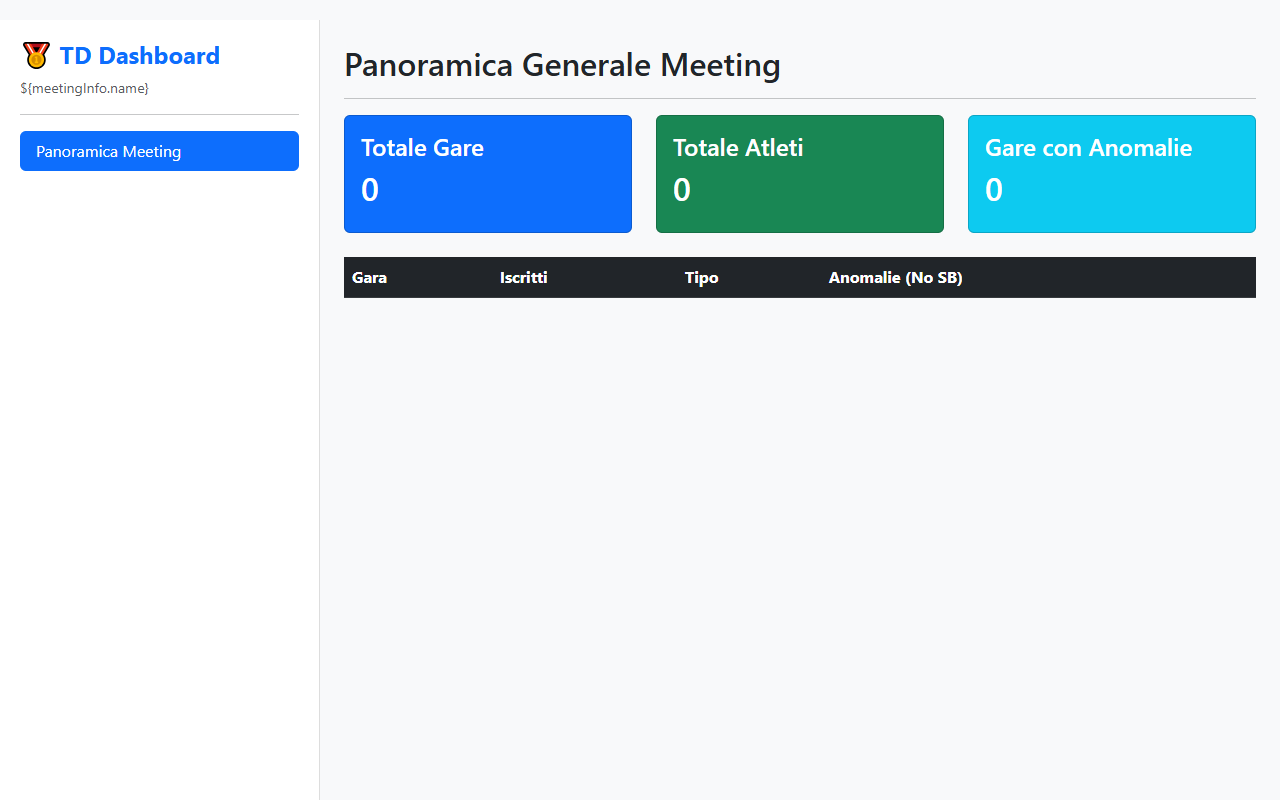
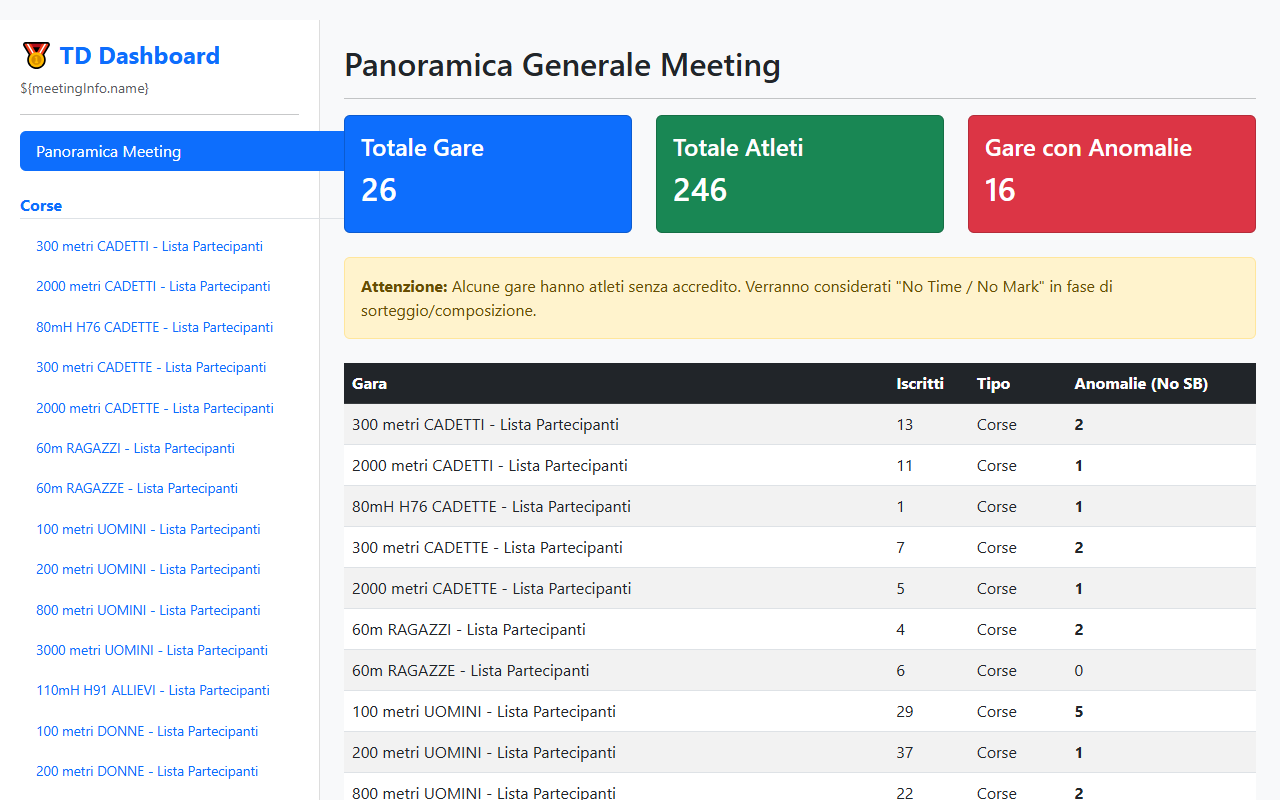
Add track and field screenshots

diff --git a/td_dashboard.html b/td_dashboard.html
@@ -36,7 +36,7 @@
     </div>
 
     <script>
-        const data = [];
+        const data = [{"id_gara":"GaraL005.html","nome_gara":"300 metri CADETTI - Lista Partecipanti","numero_iscritti":13,"iscritti":[{"pettorale":"","nominativo":"Atleta 1","fidal_link":"","anno_nascita":"2011","categoria":"CM","societa":"Società 4","accredito":"37.19"},{"pettorale":"","nominativo":"Atleta 2","fidal_link":"","anno_nascita":"2011","categoria":"CM","societa":"Società 5","accredito":"37.52"},{"pettorale":"","nominativo":"Atleta 3","fidal_link":"","anno_nascita":"2011","categoria":"CM","societa":"Società 13","accredito":"37.89"},{"pettorale":"","nominativo":"Atleta 4","fidal_link":"","anno_nascita":"2012","categoria":"CM","societa":"Società 8","accredito":"38.37"},{"pettorale":"","nominativo":"Atleta 5","fidal_link":"","anno_nascita":"2012","categoria":"CM","societa":"Società 16","accredito":"38.45"},{"pettorale":"","nominativo":"Atleta 6","fidal_link":"","anno_nascita":"2012","categoria":"CM","societa":"Società 5","accredito":"38.76"},{"pettorale":"","nominativo":"Atleta 7","fidal_link":"","anno_nascita":"2011","categoria":"CM","societa":"Società 3","accredito":"38.97"},{"pettorale":"","nominativo":"Atleta 8","fidal_link":"","anno_nascita":"2011","categoria":"CM","societa":"Società 10","accredito":"39.22"},{"pettorale":"","nominativo":"Atleta 9","fidal_link":"","anno_nascita":"2011","categoria":"CM","societa":"Società 14","accredito":"41.15"},{"pettorale":"","nominativo":"Atleta 10","fidal_link":"","anno_nascita":"2011","categoria":"CM","societa":"Società 15","accredito":"41.85"},{"pettorale":"","nominativo":"Atleta 11","fidal_link":"","anno_nascita":"2011","categoria":"CM","societa":"Società 3","accredito":"41.89"},{"pettorale":"","nominativo":"Atleta 12","fidal_link":"","anno_nascita":"2011","categoria":"CM","societa":"Società 2","accredito":""},{"pettorale":"","nominativo":"Atleta 13","fidal_link":"","anno_nascita":"2011","categoria":"CM","societa":"Società 2","accredito":""}]},{"id_gara":"GaraL009.html","nome_gara":"2000 metri CADETTI - Lista Partecipanti","numero_iscritti":11,"iscritti":[{"pettorale":"60","nominativo":"Atleta 14","fidal_link":"","anno_nascita":"2011","categoria":"CM","societa":"Società 1","accredito":"6:07.54"},{"pettorale":"70","nominativo":"Atleta 15","fidal_link":"","anno_nascita":"2011","categoria":"CM","societa":"Società 13","accredito":"6:10.03"},{"pettorale":"33","nominativo":"Atleta 16","fidal_link":"","anno_nascita":"2011","categoria":"CM","societa":"Società 20","accredito":"6:10.63"},{"pettorale":"16","nominativo":"Atleta 17","fidal_link":"","anno_nascita":"2011","categoria":"CM","societa":"Società 9","accredito":"6:20.55"},{"pettorale":"34","nominativo":"Atleta 18","fidal_link":"","anno_nascita":"2012","categoria":"CM","societa":"Società 5","accredito":"6:22.08"},{"pettorale":"35","nominativo":"Atleta 19","fidal_link":"","anno_nascita":"2011","categoria":"CM","societa":"Società 15","accredito":"6:23.97"},{"pettorale":"62","nominativo":"Atleta 20","fidal_link":"","anno_nascita":"2011","categoria":"CM","societa":"Società 13","accredito":"6:31.22"},{"pettorale":"64","nominativo":"Atleta 21","fidal_link":"","anno_nascita":"2011","categoria":"CM","societa":"Società 12","accredito":"6:35.00"},{"pettorale":"73","nominativo":"Atleta 22","fidal_link":"","anno_nascita":"2011","categoria":"CM","societa":"Società 4","accredito":"6:36.27"},{"pettorale":"47","nominativo":"Atleta 23","fidal_link":"","anno_nascita":"2011","categoria":"CM","societa":"Società 5","accredito":"6:36.63"},{"pettorale":"32","nominativo":"Atleta 24","fidal_link":"","anno_nascita":"2011","categoria":"CM","societa":"Società 12","accredito":""}]},{"id_gara":"GaraL101.html","nome_gara":"80mH H76 CADETTE - Lista Partecipanti","numero_iscritti":1,"iscritti":[{"pettorale":"","nominativo":"Atleta 25","fidal_link":"","anno_nascita":"2011","categoria":"CF","societa":"Società 14","accredito":""}]},{"id_gara":"GaraL105.html","nome_gara":"300 metri CADETTE - Lista Partecipanti","numero_iscritti":7,"iscritti":[{"pettorale":"","nominativo":"Atleta 26","fidal_link":"","anno_nascita":"2011","categoria":"CF","societa":"Società 9","accredito":"40.58"},{"pettorale":"","nominativo":"Atleta 27","fidal_link":"","anno_nascita":"2011","categoria":"CF","societa":"Società 13","accredito":"45.38"},{"pettorale":"","nominativo":"Atleta 28","fidal_link":"","anno_nascita":"2011","categoria":"CF","societa":"Società 15","accredito":"46.48"},{"pettorale":"","nominativo":"Atleta 29","fidal_link":"","anno_nascita":"2011","categoria":"CF","societa":"Società 17","accredito":"50.64"},{"pettorale":"","nominativo":"Atleta 30","fidal_link":"","anno_nascita":"2012","categoria":"CF","societa":"Società 16","accredito":"54.37"},{"pettorale":"","nominativo":"Atleta 31","fidal_link":"","anno_nascita":"2012","categoria":"CF","societa":"Società 12","accredito":""},{"pettorale":"","nominativo":"Atleta 32","fidal_link":"","anno_nascita":"2012","categoria":"CF","societa":"Società 20","accredito":""}]},{"id_gara":"GaraL109.html","nome_gara":"2000 metri CADETTE - Lista Partecipanti","numero_iscritti":5,"iscritti":[{"pettorale":"56","nominativo":"Atleta 33","fidal_link":"","anno_nascita":"2011","categoria":"CF","societa":"Società 1","accredito":"6:46.63"},{"pettorale":"27","nominativo":"Atleta 34","fidal_link":"","anno_nascita":"2012","categoria":"CF","societa":"Società 2","accredito":"7:33.96"},{"pettorale":"75","nominativo":"Atleta 35","fidal_link":"","anno_nascita":"2011","categoria":"CF","societa":"Società 10","accredito":"7:50.33"},{"pettorale":"10","nominativo":"Atleta 36","fidal_link":"","anno_nascita":"2011","categoria":"CF","societa":"Società 15","accredito":"7:57.62"},{"pettorale":"71","nominativo":"Atleta 37","fidal_link":"","anno_nascita":"2012","categoria":"CF","societa":"Società 11","accredito":""}]},{"id_gara":"GaraL201.html","nome_gara":"60m RAGAZZI - Lista Partecipanti","numero_iscritti":4,"iscritti":[{"pettorale":"","nominativo":"Atleta 38","fidal_link":"","anno_nascita":"2013","categoria":"RM","societa":"Società 8","accredito":"8.20"},{"pettorale":"","nominativo":"Atleta 39","fidal_link":"","anno_nascita":"2013","categoria":"RM","societa":"Società 17","accredito":"8.33"},{"pettorale":"","nominativo":"Atleta 40","fidal_link":"","anno_nascita":"2013","categoria":"RM","societa":"Società 4","accredito":""},{"pettorale":"","nominativo":"Atleta 41","fidal_link":"","anno_nascita":"2013","categoria":"RM","societa":"Società 18","accredito":""}]},{"id_gara":"GaraL301.html","nome_gara":"60m RAGAZZE - Lista Partecipanti","numero_iscritti":6,"iscritti":[{"pettorale":"","nominativo":"Atleta 42","fidal_link":"","anno_nascita":"2013","categoria":"RF","societa":"Società 15","accredito":"8.19"},{"pettorale":"","nominativo":"Atleta 43","fidal_link":"","anno_nascita":"2013","categoria":"RF","societa":"Società 6","accredito":"9.07"},{"pettorale":"","nominativo":"Atleta 44","fidal_link":"","anno_nascita":"2013","categoria":"RF","societa":"Società 20","accredito":"9.16"},{"pettorale":"","nominativo":"Atleta 45","fidal_link":"","anno_nascita":"2013","categoria":"RF","societa":"Società 13","accredito":"9.29"},{"pettorale":"","nominativo":"Atleta 46","fidal_link":"","anno_nascita":"2014","categoria":"RF","societa":"Società 12","accredito":"9.34"},{"pettorale":"","nominativo":"Atleta 47","fidal_link":"","anno_nascita":"2013","categoria":"RF","societa":"Società 12","accredito":"9.55"}]},{"id_gara":"GaraL403.html","nome_gara":"100 metri UOMINI - Lista Partecipanti","numero_iscritti":29,"iscritti":[{"pettorale":"","nominativo":"Atleta 48","fidal_link":"","anno_nascita":"2005","categoria":"PM","societa":"Società 4","accredito":"10.81"},{"pettorale":"","nominativo":"Atleta 49","fidal_link":"","anno_nascita":"2001","categoria":"SM","societa":"Società 6","accredito":"11.01"},{"pettorale":"","nominativo":"Atleta 50","fidal_link":"","anno_nascita":"2005","categoria":"PM","societa":"Società 20","accredito":"11.13"},{"pettorale":"","nominativo":"Atleta 51","fidal_link":"","anno_nascita":"2007","categoria":"JM","societa":"Società 19","accredito":"11.17"},{"pettorale":"","nominativo":"Atleta 52","fidal_link":"","anno_nascita":"2009","categoria":"AM","societa":"Società 10","accredito":"11.44"},{"pettorale":"","nominativo":"Atleta 53","fidal_link":"","anno_nascita":"2008","categoria":"JM","societa":"Società 5","accredito":"11.65"},{"pettorale":"","nominativo":"Atleta 54","fidal_link":"","anno_nascita":"2006","categoria":"PM","societa":"Società 13","accredito":"11.68"},{"pettorale":"","nominativo":"Atleta 55","fidal_link":"","anno_nascita":"2003","categoria":"SM","societa":"Società 16","accredito":"11.70"},{"pettorale":"","nominativo":"Atleta 56","fidal_link":"","anno_nascita":"2009","categoria":"AM","societa":"Società 15","accredito":"11.70"},{"pettorale":"","nominativo":"Atleta 57","fidal_link":"","anno_nascita":"2010","categoria":"AM","societa":"Società 5","accredito":"11.75"},{"pettorale":"","nominativo":"Atleta 58","fidal_link":"","anno_nascita":"1994","categoria":"SM","societa":"Società 7","accredito":"11.76"},{"pettorale":"","nominativo":"Atleta 59","fidal_link":"","anno_nascita":"2001","categoria":"SM","societa":"Società 13","accredito":"11.80"},{"pettorale":"","nominativo":"Atleta 60","fidal_link":"","anno_nascita":"2005","categoria":"PM","societa":"Società 7","accredito":"11.86"},{"pettorale":"","nominativo":"Atleta 61","fidal_link":"","anno_nascita":"1980","categoria":"SM45","societa":"Società 11","accredito":"11.88"},{"pettorale":"","nominativo":"Atleta 62","fidal_link":"","anno_nascita":"1982","categoria":"SM40","societa":"Società 20","accredito":"11.92"},{"pettorale":"","nominativo":"Atleta 63","fidal_link":"","anno_nascita":"1982","categoria":"SM40","societa":"Società 9","accredito":"12.20"},{"pettorale":"","nominativo":"Atleta 64","fidal_link":"","anno_nascita":"1972","categoria":"SM50","societa":"Società 6","accredito":"12.0"},{"pettorale":"","nominativo":"Atleta 65","fidal_link":"","anno_nascita":"1992","categoria":"SM","societa":"Società 16","accredito":"12.28"},{"pettorale":"","nominativo":"Atleta 66","fidal_link":"","anno_nascita":"1969","categoria":"SM55","societa":"Società 14","accredito":"12.61"},{"pettorale":"","nominativo":"Atleta 67","fidal_link":"","anno_nascita":"1962","categoria":"SM60","societa":"Società 6","accredito":"12.66"},{"pettorale":"","nominativo":"Atleta 68","fidal_link":"","anno_nascita":"1982","categoria":"SM40","societa":"Società 8","accredito":"12.93"},{"pettorale":"","nominativo":"Atleta 69","fidal_link":"","anno_nascita":"1974","categoria":"SM50","societa":"Società 1","accredito":"13.59"},{"pettorale":"","nominativo":"Atleta 70","fidal_link":"","anno_nascita":"2010","categoria":"AM","societa":"Società 18","accredito":"14.35"},{"pettorale":"","nominativo":"Atleta 71","fidal_link":"","anno_nascita":"1958","categoria":"SM65","societa":"Società 18","accredito":"18.07"},{"pettorale":"","nominativo":"Atleta 72","fidal_link":"","anno_nascita":"2007","categoria":"JM","societa":"Società 7","accredito":""},{"pettorale":"","nominativo":"Atleta 73","fidal_link":"","anno_nascita":"2003","categoria":"SM","societa":"Società 12","accredito":""},{"pettorale":"","nominativo":"Atleta 74","fidal_link":"","anno_nascita":"2005","categoria":"PM","societa":"Società 5","accredito":""},{"pettorale":"","nominativo":"Atleta 75","fidal_link":"","anno_nascita":"1969","categoria":"SM55","societa":"Società 14","accredito":""},{"pettorale":"","nominativo":"Atleta 76","fidal_link":"","anno_nascita":"1991","categoria":"SM35","societa":"Società 4","accredito":""}]},{"id_gara":"GaraL404.html","nome_gara":"200 metri UOMINI - Lista Partecipanti","numero_iscritti":37,"iscritti":[{"pettorale":"","nominativo":"Atleta 77","fidal_link":"","anno_nascita":"2009","categoria":"AM","societa":"Società 12","accredito":"22.23"},{"pettorale":"","nominativo":"Atleta 78","fidal_link":"","anno_nascita":"1998","categoria":"SM","societa":"Società 15","accredito":"22.53"},{"pettorale":"","nominativo":"Atleta 79","fidal_link":"","anno_nascita":"2005","categoria":"PM","societa":"Società 7","accredito":"22.76"},{"pettorale":"","nominativo":"Atleta 80","fidal_link":"","anno_nascita":"2007","categoria":"JM","societa":"Società 16","accredito":"22.95"},{"pettorale":"","nominativo":"Atleta 81","fidal_link":"","anno_nascita":"2005","categoria":"PM","societa":"Società 4","accredito":"23.07"},{"pettorale":"","nominativo":"Atleta 82","fidal_link":"","anno_nascita":"2008","categoria":"JM","societa":"Società 10","accredito":"23.41"},{"pettorale":"","nominativo":"Atleta 83","fidal_link":"","anno_nascita":"2008","categoria":"JM","societa":"Società 11","accredito":"23.69"},{"pettorale":"","nominativo":"Atleta 84","fidal_link":"","anno_nascita":"2001","categoria":"SM","societa":"Società 16","accredito":"23.89"},{"pettorale":"","nominativo":"Atleta 85","fidal_link":"","anno_nascita":"2004","categoria":"PM","societa":"Società 1","accredito":"23.91"},{"pettorale":"","nominativo":"Atleta 86","fidal_link":"","anno_nascita":"2009","categoria":"AM","societa":"Società 4","accredito":"23.8"},{"pettorale":"","nominativo":"Atleta 87","fidal_link":"","anno_nascita":"2003","categoria":"SM","societa":"Società 15","accredito":"24.12"},{"pettorale":"","nominativo":"Atleta 88","fidal_link":"","anno_nascita":"2006","categoria":"PM","societa":"Società 14","accredito":"24.16"},{"pettorale":"","nominativo":"Atleta 89","fidal_link":"","anno_nascita":"1992","categoria":"SM","societa":"Società 14","accredito":"24.20"},{"pettorale":"","nominativo":"Atleta 90","fidal_link":"","anno_nascita":"1974","categoria":"SM50","societa":"Società 9","accredito":"24.22"},{"pettorale":"","nominativo":"Atleta 91","fidal_link":"","anno_nascita":"1996","categoria":"SM","societa":"Società 10","accredito":"24.30"},{"pettorale":"","nominativo":"Atleta 92","fidal_link":"","anno_nascita":"2008","categoria":"JM","societa":"Società 11","accredito":"24.1"},{"pettorale":"","nominativo":"Atleta 93","fidal_link":"","anno_nascita":"2007","categoria":"JM","societa":"Società 16","accredito":"24.46"},{"pettorale":"","nominativo":"Atleta 94","fidal_link":"","anno_nascita":"2010","categoria":"AM","societa":"Società 16","accredito":"24.53"},{"pettorale":"","nominativo":"Atleta 95","fidal_link":"","anno_nascita":"2008","categoria":"JM","societa":"Società 7","accredito":"24.3"},{"pettorale":"","nominativo":"Atleta 96","fidal_link":"","anno_nascita":"1972","categoria":"SM50","societa":"Società 9","accredito":"24.54"},{"pettorale":"","nominativo":"Atleta 97","fidal_link":"","anno_nascita":"1980","categoria":"SM45","societa":"Società 14","accredito":"24.71"},{"pettorale":"","nominativo":"Atleta 98","fidal_link":"","anno_nascita":"2007","categoria":"JM","societa":"Società 4","accredito":"24.72"},{"pettorale":"","nominativo":"Atleta 99","fidal_link":"","anno_nascita":"2005","categoria":"PM","societa":"Società 7","accredito":"24.73"},{"pettorale":"","nominativo":"Atleta 100","fidal_link":"","anno_nascita":"2010","categoria":"AM","societa":"Società 4","accredito":"24.5"},{"pettorale":"","nominativo":"Atleta 101","fidal_link":"","anno_nascita":"2008","categoria":"JM","societa":"Società 7","accredito":"24.5"},{"pettorale":"","nominativo":"Atleta 102","fidal_link":"","anno_nascita":"1982","categoria":"SM40","societa":"Società 20","accredito":"24.80"},{"pettorale":"","nominativo":"Atleta 103","fidal_link":"","anno_nascita":"2008","categoria":"JM","societa":"Società 4","accredito":"24.81"},{"pettorale":"","nominativo":"Atleta 104","fidal_link":"","anno_nascita":"2010","categoria":"AM","societa":"Società 19","accredito":"24.83"},{"pettorale":"","nominativo":"Atleta 105","fidal_link":"","anno_nascita":"2010","categoria":"AM","societa":"Società 9","accredito":"24.83"},{"pettorale":"","nominativo":"Atleta 106","fidal_link":"","anno_nascita":"1982","categoria":"SM40","societa":"Società 7","accredito":"24.90"},{"pettorale":"","nominativo":"Atleta 107","fidal_link":"","anno_nascita":"1962","categoria":"SM60","societa":"Società 6","accredito":"25.83"},{"pettorale":"","nominativo":"Atleta 108","fidal_link":"","anno_nascita":"1976","categoria":"SM50","societa":"Società 6","accredito":"25.96"},{"pettorale":"","nominativo":"Atleta 109","fidal_link":"","anno_nascita":"2006","categoria":"PM","societa":"Società 15","accredito":"26.06"},{"pettorale":"","nominativo":"Atleta 110","fidal_link":"","anno_nascita":"1982","categoria":"SM40","societa":"Società 5","accredito":"26.74"},{"pettorale":"","nominativo":"Atleta 111","fidal_link":"","anno_nascita":"1948","categoria":"SM75","societa":"Società 13","accredito":"28.41"},{"pettorale":"","nominativo":"Atleta 112","fidal_link":"","anno_nascita":"1972","categoria":"SM50","societa":"Società 9","accredito":"29.74"},{"pettorale":"","nominativo":"Atleta 113","fidal_link":"","anno_nascita":"1991","categoria":"SM35","societa":"Società 7","accredito":""}]},{"id_gara":"GaraL408.html","nome_gara":"800 metri UOMINI - Lista Partecipanti","numero_iscritti":22,"iscritti":[{"pettorale":"80","nominativo":"Atleta 114","fidal_link":"","anno_nascita":"1998","categoria":"SM","societa":"Società 7","accredito":"1:53.72"},{"pettorale":"79","nominativo":"Atleta 115","fidal_link":"","anno_nascita":"1995","categoria":"SM","societa":"Società 4","accredito":"1:54.18"},{"pettorale":"72","nominativo":"Atleta 116","fidal_link":"","anno_nascita":"2003","categoria":"SM","societa":"Società 9","accredito":"1:56.0"},{"pettorale":"53","nominativo":"Atleta 117","fidal_link":"","anno_nascita":"2000","categoria":"SM","societa":"Società 12","accredito":"1:56.35"},{"pettorale":"74","nominativo":"Atleta 118","fidal_link":"","anno_nascita":"2007","categoria":"JM","societa":"Società 4","accredito":"1:57.67"},{"pettorale":"13","nominativo":"Atleta 119","fidal_link":"","anno_nascita":"2010","categoria":"AM","societa":"Società 9","accredito":"2:00.45"},{"pettorale":"81","nominativo":"Atleta 120","fidal_link":"","anno_nascita":"1993","categoria":"SM","societa":"Società 2","accredito":"2:00.55"},{"pettorale":"69","nominativo":"Atleta 121","fidal_link":"","anno_nascita":"1983","categoria":"SM40","societa":"Società 14","accredito":"2:05.00"},{"pettorale":"44","nominativo":"Atleta 122","fidal_link":"","anno_nascita":"2010","categoria":"AM","societa":"Società 13","accredito":"2:05.02"},{"pettorale":"39","nominativo":"Atleta 123","fidal_link":"","anno_nascita":"2005","categoria":"PM","societa":"Società 1","accredito":"2:07.16"},{"pettorale":"40","nominativo":"Atleta 124","fidal_link":"","anno_nascita":"2008","categoria":"JM","societa":"Società 15","accredito":"2:07.97"},{"pettorale":"78","nominativo":"Atleta 125","fidal_link":"","anno_nascita":"2008","categoria":"JM","societa":"Società 9","accredito":"2:09.26"},{"pettorale":"29","nominativo":"Atleta 126","fidal_link":"","anno_nascita":"1996","categoria":"SM","societa":"Società 5","accredito":"2:10.58"},{"pettorale":"25","nominativo":"Atleta 127","fidal_link":"","anno_nascita":"2009","categoria":"AM","societa":"Società 5","accredito":"2:14.44"},{"pettorale":"42","nominativo":"Atleta 128","fidal_link":"","anno_nascita":"2009","categoria":"AM","societa":"Società 17","accredito":"2:15.17"},{"pettorale":"38","nominativo":"Atleta 129","fidal_link":"","anno_nascita":"2010","categoria":"AM","societa":"Società 4","accredito":"2:19.35"},{"pettorale":"37","nominativo":"Atleta 130","fidal_link":"","anno_nascita":"2009","categoria":"AM","societa":"Società 17","accredito":"2:19.76"},{"pettorale":"23","nominativo":"Atleta 131","fidal_link":"","anno_nascita":"1974","categoria":"SM50","societa":"Società 15","accredito":"2:23.86"},{"pettorale":"36","nominativo":"Atleta 132","fidal_link":"","anno_nascita":"2009","categoria":"AM","societa":"Società 6","accredito":"2:25.09"},{"pettorale":"15","nominativo":"Atleta 133","fidal_link":"","anno_nascita":"1976","categoria":"SM50","societa":"Società 14","accredito":"2:32.51"},{"pettorale":"41","nominativo":"Atleta 134","fidal_link":"","anno_nascita":"2005","categoria":"PM","societa":"Società 1","accredito":""},{"pettorale":"30","nominativo":"Atleta 135","fidal_link":"","anno_nascita":"2009","categoria":"AM","societa":"Società 9","accredito":""}]},{"id_gara":"GaraL413.html","nome_gara":"3000 metri UOMINI - Lista Partecipanti","numero_iscritti":18,"iscritti":[{"pettorale":"50","nominativo":"Atleta 136","fidal_link":"","anno_nascita":"2004","categoria":"PM","societa":"Società 1","accredito":"8:30.74"},{"pettorale":"48","nominativo":"Atleta 137","fidal_link":"","anno_nascita":"2007","categoria":"JM","societa":"Società 11","accredito":"8:39.86"},{"pettorale":"58","nominativo":"Atleta 138","fidal_link":"","anno_nascita":"2005","categoria":"PM","societa":"Società 17","accredito":"8:50.06"},{"pettorale":"31","nominativo":"Atleta 139","fidal_link":"","anno_nascita":"2006","categoria":"PM","societa":"Società 11","accredito":"9:00.59"},{"pettorale":"52","nominativo":"Atleta 140","fidal_link":"","anno_nascita":"2006","categoria":"PM","societa":"Società 20","accredito":"9:08.92"},{"pettorale":"55","nominativo":"Atleta 141","fidal_link":"","anno_nascita":"2008","categoria":"JM","societa":"Società 11","accredito":"9:10.0"},{"pettorale":"20","nominativo":"Atleta 142","fidal_link":"","anno_nascita":"1989","categoria":"SM35","societa":"Società 1","accredito":"9:10.0"},{"pettorale":"49","nominativo":"Atleta 143","fidal_link":"","anno_nascita":"2009","categoria":"AM","societa":"Società 19","accredito":"9:15.61"},{"pettorale":"26","nominativo":"Atleta 144","fidal_link":"","anno_nascita":"1996","categoria":"SM","societa":"Società 11","accredito":"9:16.58"},{"pettorale":"21","nominativo":"Atleta 145","fidal_link":"","anno_nascita":"2009","categoria":"AM","societa":"Società 6","accredito":"9:17.75"},{"pettorale":"24","nominativo":"Atleta 146","fidal_link":"","anno_nascita":"2008","categoria":"JM","societa":"Società 12","accredito":"9:18.09"},{"pettorale":"45","nominativo":"Atleta 147","fidal_link":"","anno_nascita":"2007","categoria":"JM","societa":"Società 19","accredito":"9:18.35"},{"pettorale":"66","nominativo":"Atleta 148","fidal_link":"","anno_nascita":"1996","categoria":"SM","societa":"Società 19","accredito":"9:30.0"},{"pettorale":"76","nominativo":"Atleta 149","fidal_link":"","anno_nascita":"2000","categoria":"SM","societa":"Società 2","accredito":"10:14.26"},{"pettorale":"77","nominativo":"Atleta 150","fidal_link":"","anno_nascita":"2008","categoria":"JM","societa":"Società 6","accredito":"10:19.73"},{"pettorale":"59","nominativo":"Atleta 151","fidal_link":"","anno_nascita":"1977","categoria":"SM45","societa":"Società 16","accredito":"10:55.73"},{"pettorale":"46","nominativo":"Atleta 152","fidal_link":"","anno_nascita":"2006","categoria":"PM","societa":"Società 5","accredito":""},{"pettorale":"68","nominativo":"Atleta 153","fidal_link":"","anno_nascita":"1991","categoria":"SM35","societa":"Società 20","accredito":""}]},{"id_gara":"GaraL420.html","nome_gara":"110mH H91 ALLIEVI - Lista Partecipanti","numero_iscritti":4,"iscritti":[{"pettorale":"","nominativo":"Atleta 154","fidal_link":"","anno_nascita":"2010","categoria":"AM","societa":"Società 9","accredito":"14.69"},{"pettorale":"","nominativo":"Atleta 155","fidal_link":"","anno_nascita":"2010","categoria":"AM","societa":"Società 10","accredito":"14.92"},{"pettorale":"","nominativo":"Atleta 156","fidal_link":"","anno_nascita":"2010","categoria":"AM","societa":"Società 20","accredito":"16.15"},{"pettorale":"","nominativo":"Atleta 157","fidal_link":"","anno_nascita":"2010","categoria":"AM","societa":"Società 16","accredito":"16.86"}]},{"id_gara":"GaraL503.html","nome_gara":"100 metri DONNE - Lista Partecipanti","numero_iscritti":12,"iscritti":[{"pettorale":"","nominativo":"Atleta 158","fidal_link":"","anno_nascita":"2008","categoria":"JF","societa":"Società 13","accredito":"11.90"},{"pettorale":"","nominativo":"Atleta 159","fidal_link":"","anno_nascita":"2007","categoria":"JF","societa":"Società 3","accredito":"12.56"},{"pettorale":"","nominativo":"Atleta 160","fidal_link":"","anno_nascita":"2001","categoria":"SF","societa":"Società 17","accredito":"12.75"},{"pettorale":"","nominativo":"Atleta 161","fidal_link":"","anno_nascita":"2010","categoria":"AF","societa":"Società 3","accredito":"12.6"},{"pettorale":"","nominativo":"Atleta 162","fidal_link":"","anno_nascita":"2000","categoria":"SF","societa":"Società 7","accredito":"12.87"},{"pettorale":"","nominativo":"Atleta 163","fidal_link":"","anno_nascita":"2007","categoria":"JF","societa":"Società 5","accredito":"13.24"},{"pettorale":"","nominativo":"Atleta 164","fidal_link":"","anno_nascita":"2006","categoria":"PF","societa":"Società 16","accredito":"13.26"},{"pettorale":"","nominativo":"Atleta 165","fidal_link":"","anno_nascita":"2010","categoria":"AF","societa":"Società 14","accredito":"13.50"},{"pettorale":"","nominativo":"Atleta 166","fidal_link":"","anno_nascita":"1966","categoria":"SF60","societa":"Società 15","accredito":"13.73"},{"pettorale":"","nominativo":"Atleta 167","fidal_link":"","anno_nascita":"2009","categoria":"AF","societa":"Società 7","accredito":"13.84"},{"pettorale":"","nominativo":"Atleta 168","fidal_link":"","anno_nascita":"2005","categoria":"PF","societa":"Società 17","accredito":"14.27"},{"pettorale":"","nominativo":"Atleta 169","fidal_link":"","anno_nascita":"1970","categoria":"SF55","societa":"Società 4","accredito":"16.19"}]},{"id_gara":"GaraL504.html","nome_gara":"200 metri DONNE - Lista Partecipanti","numero_iscritti":11,"iscritti":[{"pettorale":"","nominativo":"Atleta 170","fidal_link":"","anno_nascita":"2000","categoria":"SF","societa":"Società 4","accredito":"23.86"},{"pettorale":"","nominativo":"Atleta 171","fidal_link":"","anno_nascita":"2004","categoria":"PF","societa":"Società 9","accredito":"25.19"},{"pettorale":"","nominativo":"Atleta 172","fidal_link":"","anno_nascita":"2008","categoria":"JF","societa":"Società 6","accredito":"25.2"},{"pettorale":"","nominativo":"Atleta 173","fidal_link":"","anno_nascita":"2003","categoria":"SF","societa":"Società 10","accredito":"26.45"},{"pettorale":"","nominativo":"Atleta 174","fidal_link":"","anno_nascita":"2007","categoria":"JF","societa":"Società 7","accredito":"27.35"},{"pettorale":"","nominativo":"Atleta 175","fidal_link":"","anno_nascita":"2008","categoria":"JF","societa":"Società 15","accredito":"27.75"},{"pettorale":"","nominativo":"Atleta 176","fidal_link":"","anno_nascita":"2010","categoria":"AF","societa":"Società 1","accredito":"27.83"},{"pettorale":"","nominativo":"Atleta 177","fidal_link":"","anno_nascita":"2008","categoria":"JF","societa":"Società 20","accredito":"29.15"},{"pettorale":"","nominativo":"Atleta 178","fidal_link":"","anno_nascita":"2010","categoria":"AF","societa":"Società 7","accredito":"37.19"},{"pettorale":"","nominativo":"Atleta 179","fidal_link":"","anno_nascita":"1970","categoria":"SF55","societa":"Società 1","accredito":""},{"pettorale":"","nominativo":"Atleta 180","fidal_link":"","anno_nascita":"2010","categoria":"AF","societa":"Società 8","accredito":""}]},{"id_gara":"GaraL508.html","nome_gara":"800 metri DONNE - Lista Partecipanti","numero_iscritti":16,"iscritti":[{"pettorale":"51","nominativo":"Atleta 181","fidal_link":"","anno_nascita":"1996","categoria":"SF","societa":"Società 12","accredito":"2:04.69"},{"pettorale":"67","nominativo":"Atleta 182","fidal_link":"","anno_nascita":"2000","categoria":"SF","societa":"Società 15","accredito":"2:05.0"},{"pettorale":"12","nominativo":"Atleta 183","fidal_link":"","anno_nascita":"2005","categoria":"PF","societa":"Società 15","accredito":"2:06.42"},{"pettorale":"18","nominativo":"Atleta 184","fidal_link":"","anno_nascita":"2010","categoria":"AF","societa":"Società 20","accredito":"2:14.91"},{"pettorale":"43","nominativo":"Atleta 185","fidal_link":"","anno_nascita":"2003","categoria":"SF","societa":"Società 12","accredito":"2:15.15"},{"pettorale":"17","nominativo":"Atleta 186","fidal_link":"","anno_nascita":"2009","categoria":"AF","societa":"Società 15","accredito":"2:15.58"},{"pettorale":"22","nominativo":"Atleta 187","fidal_link":"","anno_nascita":"1994","categoria":"SF","societa":"Società 7","accredito":"2:17.0"},{"pettorale":"11","nominativo":"Atleta 188","fidal_link":"","anno_nascita":"2010","categoria":"AF","societa":"Società 9","accredito":"2:21.68"},{"pettorale":"14","nominativo":"Atleta 189","fidal_link":"","anno_nascita":"1983","categoria":"SF40","societa":"Società 13","accredito":"2:22.51"},{"pettorale":"65","nominativo":"Atleta 190","fidal_link":"","anno_nascita":"2003","categoria":"SF","societa":"Società 14","accredito":"2:28.0"},{"pettorale":"54","nominativo":"Atleta 191","fidal_link":"","anno_nascita":"2007","categoria":"JF","societa":"Società 1","accredito":"2:28.66"},{"pettorale":"57","nominativo":"Atleta 192","fidal_link":"","anno_nascita":"2010","categoria":"AF","societa":"Società 7","accredito":"2:36.33"},{"pettorale":"19","nominativo":"Atleta 193","fidal_link":"","anno_nascita":"2010","categoria":"AF","societa":"Società 3","accredito":"2:41.81"},{"pettorale":"28","nominativo":"Atleta 194","fidal_link":"","anno_nascita":"2004","categoria":"PF","societa":"Società 12","accredito":"2:47.14"},{"pettorale":"63","nominativo":"Atleta 195","fidal_link":"","anno_nascita":"1986","categoria":"SF40","societa":"Società 6","accredito":"2:48.41"},{"pettorale":"61","nominativo":"Atleta 196","fidal_link":"","anno_nascita":"1968","categoria":"SF55","societa":"Società 8","accredito":""}]},{"id_gara":"GaraL694.html","nome_gara":"Staffetta 4x400m Mista - Lista Partecipanti","numero_iscritti":0,"iscritti":[]},{"id_gara":"GaraL428.html","nome_gara":"Salto triplo UOMINI - Lista Partecipanti","numero_iscritti":2,"iscritti":[{"pettorale":"","nominativo":"Atleta 197","fidal_link":"","anno_nascita":"2010","categoria":"AM","societa":"Società 9","accredito":"13.08"},{"pettorale":"","nominativo":"Atleta 198","fidal_link":"","anno_nascita":"1974","categoria":"SM50","societa":"Società 5","accredito":"10.94"}]},{"id_gara":"GaraL526.html","nome_gara":"Salto in alto DONNE - Lista Partecipanti","numero_iscritti":2,"iscritti":[{"pettorale":"","nominativo":"Atleta 199","fidal_link":"","anno_nascita":"2008","categoria":"JF","societa":"Società 2","accredito":"1.71"},{"pettorale":"","nominativo":"Atleta 200","fidal_link":"","anno_nascita":"1970","categoria":"SF55","societa":"Società 19","accredito":""}]},{"id_gara":"GaraL528.html","nome_gara":"Salto in lungo DONNE - Lista Partecipanti","numero_iscritti":7,"iscritti":[{"pettorale":"","nominativo":"Atleta 201","fidal_link":"","anno_nascita":"2007","categoria":"JF","societa":"Società 20","accredito":"5.75"},{"pettorale":"","nominativo":"Atleta 202","fidal_link":"","anno_nascita":"2000","categoria":"SF","societa":"Società 20","accredito":"5.31"},{"pettorale":"","nominativo":"Atleta 203","fidal_link":"","anno_nascita":"2010","categoria":"AF","societa":"Società 8","accredito":"4.79"},{"pettorale":"","nominativo":"Atleta 204","fidal_link":"","anno_nascita":"2010","categoria":"AF","societa":"Società 4","accredito":"4.62"},{"pettorale":"","nominativo":"Atleta 205","fidal_link":"","anno_nascita":"2009","categoria":"AF","societa":"Società 1","accredito":"4.55"},{"pettorale":"","nominativo":"Atleta 206","fidal_link":"","anno_nascita":"1970","categoria":"SF55","societa":"Società 5","accredito":"4.46"},{"pettorale":"","nominativo":"Atleta 207","fidal_link":"","anno_nascita":"1992","categoria":"SF","societa":"Società 15","accredito":""}]},{"id_gara":"GaraL130.html","nome_gara":"Disco 1kg CADETTE - Lista Partecipanti","numero_iscritti":2,"iscritti":[{"pettorale":"","nominativo":"Atleta 208","fidal_link":"","anno_nascita":"2011","categoria":"CF","societa":"Società 18","accredito":"31.68"},{"pettorale":"","nominativo":"Atleta 209","fidal_link":"","anno_nascita":"2012","categoria":"CF","societa":"Società 4","accredito":"23.50"}]},{"id_gara":"GaraL131.html","nome_gara":"Giavellotto 400g CADETTE - Lista Partecipanti","numero_iscritti":3,"iscritti":[{"pettorale":"","nominativo":"Atleta 210","fidal_link":"","anno_nascita":"2011","categoria":"CF","societa":"Società 3","accredito":"36.93"},{"pettorale":"","nominativo":"Atleta 211","fidal_link":"","anno_nascita":"2012","categoria":"CF","societa":"Società 2","accredito":"34.18"},{"pettorale":"","nominativo":"Atleta 212","fidal_link":"","anno_nascita":"2012","categoria":"CF","societa":"Società 9","accredito":"21.63"}]},{"id_gara":"GaraL429.html","nome_gara":"Giavellotto/JT Gr800 ASSOLUTI UOMINI - Lista Partecipanti","numero_iscritti":7,"iscritti":[{"pettorale":"","nominativo":"Atleta 213","fidal_link":"","anno_nascita":"1998","categoria":"SM","societa":"Società 19","accredito":"76.72"},{"pettorale":"","nominativo":"Atleta 214","fidal_link":"","anno_nascita":"1995","categoria":"SM","societa":"Società 16","accredito":"59.42"},{"pettorale":"","nominativo":"Atleta 215","fidal_link":"","anno_nascita":"2003","categoria":"SM","societa":"Società 6","accredito":"52.76"},{"pettorale":"","nominativo":"Atleta 216","fidal_link":"","anno_nascita":"2008","categoria":"JM","societa":"Società 13","accredito":"48.80"},{"pettorale":"","nominativo":"Atleta 217","fidal_link":"","anno_nascita":"2007","categoria":"JM","societa":"Società 12","accredito":"38.41"},{"pettorale":"","nominativo":"Atleta 218","fidal_link":"","anno_nascita":"2008","categoria":"JM","societa":"Società 9","accredito":"33.73"},{"pettorale":"","nominativo":"Atleta 219","fidal_link":"","anno_nascita":"1969","categoria":"SM55","societa":"Società 20","accredito":"30.10"}]},{"id_gara":"GaraL430.html","nome_gara":"Giavellotto g 700 ALLIEVI - Lista Partecipanti","numero_iscritti":5,"iscritti":[{"pettorale":"","nominativo":"Atleta 220","fidal_link":"","anno_nascita":"2009","categoria":"AM","societa":"Società 11","accredito":"45.98"},{"pettorale":"","nominativo":"Atleta 221","fidal_link":"","anno_nascita":"2009","categoria":"AM","societa":"Società 8","accredito":"44.38"},{"pettorale":"","nominativo":"Atleta 222","fidal_link":"","anno_nascita":"2010","categoria":"AM","societa":"Società 1","accredito":"38.02"},{"pettorale":"","nominativo":"Atleta 223","fidal_link":"","anno_nascita":"2010","categoria":"AM","societa":"Società 13","accredito":"35.01"},{"pettorale":"","nominativo":"Atleta 224","fidal_link":"","anno_nascita":"2010","categoria":"AM","societa":"Società 16","accredito":"32.61"}]},{"id_gara":"GaraL531.html","nome_gara":"Disco 1kg DONNE - Lista Partecipanti","numero_iscritti":12,"iscritti":[{"pettorale":"","nominativo":"Atleta 225","fidal_link":"","anno_nascita":"2004","categoria":"PF","societa":"Società 12","accredito":"54.98"},{"pettorale":"","nominativo":"Atleta 226","fidal_link":"","anno_nascita":"2009","categoria":"AF","societa":"Società 17","accredito":"48.24"},{"pettorale":"","nominativo":"Atleta 227","fidal_link":"","anno_nascita":"2009","categoria":"AF","societa":"Società 6","accredito":"43.23"},{"pettorale":"","nominativo":"Atleta 228","fidal_link":"","anno_nascita":"2010","categoria":"AF","societa":"Società 10","accredito":"35.34"},{"pettorale":"","nominativo":"Atleta 229","fidal_link":"","anno_nascita":"2008","categoria":"JF","societa":"Società 8","accredito":"34.72"},{"pettorale":"","nominativo":"Atleta 230","fidal_link":"","anno_nascita":"2008","categoria":"JF","societa":"Società 2","accredito":"34.23"},{"pettorale":"","nominativo":"Atleta 231","fidal_link":"","anno_nascita":"2010","categoria":"AF","societa":"Società 8","accredito":"33.19"},{"pettorale":"","nominativo":"Atleta 232","fidal_link":"","anno_nascita":"1979","categoria":"SF45","societa":"Società 6","accredito":"22.66"},{"pettorale":"","nominativo":"Atleta 233","fidal_link":"","anno_nascita":"1972","categoria":"SF50","societa":"Società 14","accredito":"19.93"},{"pettorale":"","nominativo":"Atleta 234","fidal_link":"","anno_nascita":"2010","categoria":"AF","societa":"Società 2","accredito":"19.67"},{"pettorale":"","nominativo":"Atleta 235","fidal_link":"","anno_nascita":"2009","categoria":"AF","societa":"Società 9","accredito":""},{"pettorale":"","nominativo":"Atleta 236","fidal_link":"","anno_nascita":"2009","categoria":"AF","societa":"Società 14","accredito":""}]},{"id_gara":"GaraL532.html","nome_gara":"Martello 3kg ALLIEVE - Lista Partecipanti","numero_iscritti":8,"iscritti":[{"pettorale":"","nominativo":"Atleta 237","fidal_link":"","anno_nascita":"2009","categoria":"AF","societa":"Società 4","accredito":"58.42"},{"pettorale":"","nominativo":"Atleta 238","fidal_link":"","anno_nascita":"2010","categoria":"AF","societa":"Società 1","accredito":"52.03"},{"pettorale":"","nominativo":"Atleta 239","fidal_link":"","anno_nascita":"2009","categoria":"AF","societa":"Società 14","accredito":"49.81"},{"pettorale":"","nominativo":"Atleta 240","fidal_link":"","anno_nascita":"2009","categoria":"AF","societa":"Società 5","accredito":"45.31"},{"pettorale":"","nominativo":"Atleta 241","fidal_link":"","anno_nascita":"2009","categoria":"AF","societa":"Società 3","accredito":"36.20"},{"pettorale":"","nominativo":"Atleta 242","fidal_link":"","anno_nascita":"2010","categoria":"AF","societa":"Società 1","accredito":"34.19"},{"pettorale":"","nominativo":"Atleta 243","fidal_link":"","anno_nascita":"2010","categoria":"AF","societa":"Società 19","accredito":""},{"pettorale":"","nominativo":"Atleta 244","fidal_link":"","anno_nascita":"2009","categoria":"AF","societa":"Società 16","accredito":""}]},{"id_gara":"GaraL533.html","nome_gara":"Martello 4kg DONNE - Lista Partecipanti","numero_iscritti":2,"iscritti":[{"pettorale":"","nominativo":"Atleta 245","fidal_link":"","anno_nascita":"2008","categoria":"JF","societa":"Società 6","accredito":"47.18"},{"pettorale":"","nominativo":"Atleta 246","fidal_link":"","anno_nascita":"2008","categoria":"JF","societa":"Società 16","accredito":"39.46"}]}];
         
         function timeToSeconds(t) {
             if (!t) return 999999;

diff --git a/generate_screenshots.js b/generate_screenshots.js
@@ -40,34 +40,31 @@ const fs = require('fs');
     await page.waitForTimeout(1000);
     await page.screenshot({ path: 'assets/overview.png' });
     
-    // Track Screen (e.g. 100m)
+    // Track Screen
     console.log('Taking track screenshot...');
-    // Find a track event in the sidebar (Usually "100 metri")
     const buttons = await page.$$('.nav-link');
     for (let btn of buttons) {
         const text = await btn.innerText();
-        if (text.includes('100 metri UOMINI') || text.includes('200 metri')) {
+        if (text.toLowerCase().includes('metri') || text.toLowerCase().includes('corsa')) {
             await btn.click();
             await page.waitForTimeout(1000);
-            
-            // click generate
-            await page.click('button:has-text("Genera Serie")');
+            const genBtn = await page.$('button:has-text("Genera")');
+            if(genBtn) await genBtn.click();
             await page.waitForTimeout(500);
             await page.screenshot({ path: 'assets/track.png' });
             break;
         }
     }
     
-    // Field Screen (e.g. Salto)
+    // Field Screen
     console.log('Taking field screenshot...');
     for (let btn of buttons) {
         const text = await btn.innerText();
-        if (text.includes('Salto in') || text.includes('Lungo') || text.includes('Giavellotto')) {
+        if (text.toLowerCase().includes('salto') || text.toLowerCase().includes('lungo') || text.toLowerCase().includes('peso') || text.toLowerCase().includes('disco')) {
             await btn.click();
             await page.waitForTimeout(1000);
-            
-            // click generate
-            await page.click('button:has-text("Genera Start List")');
+            const genBtn = await page.$('button:has-text("Genera")');
+            if(genBtn) await genBtn.click();
             await page.waitForTimeout(500);
             await page.screenshot({ path: 'assets/field.png' });
             break;
